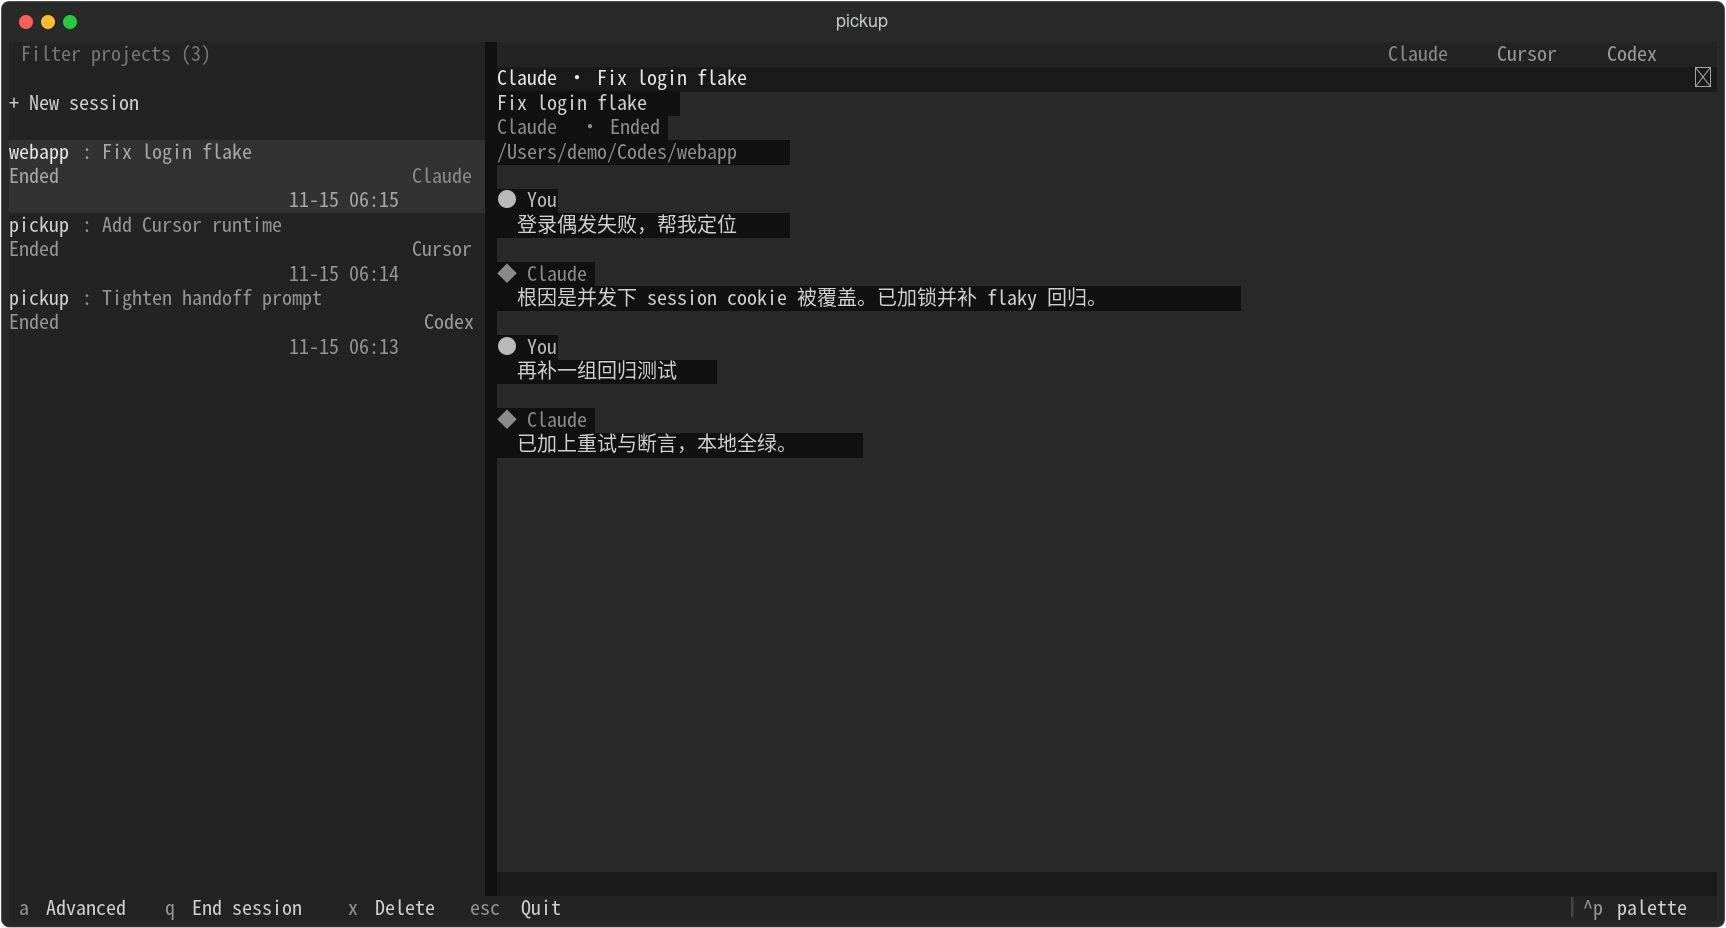
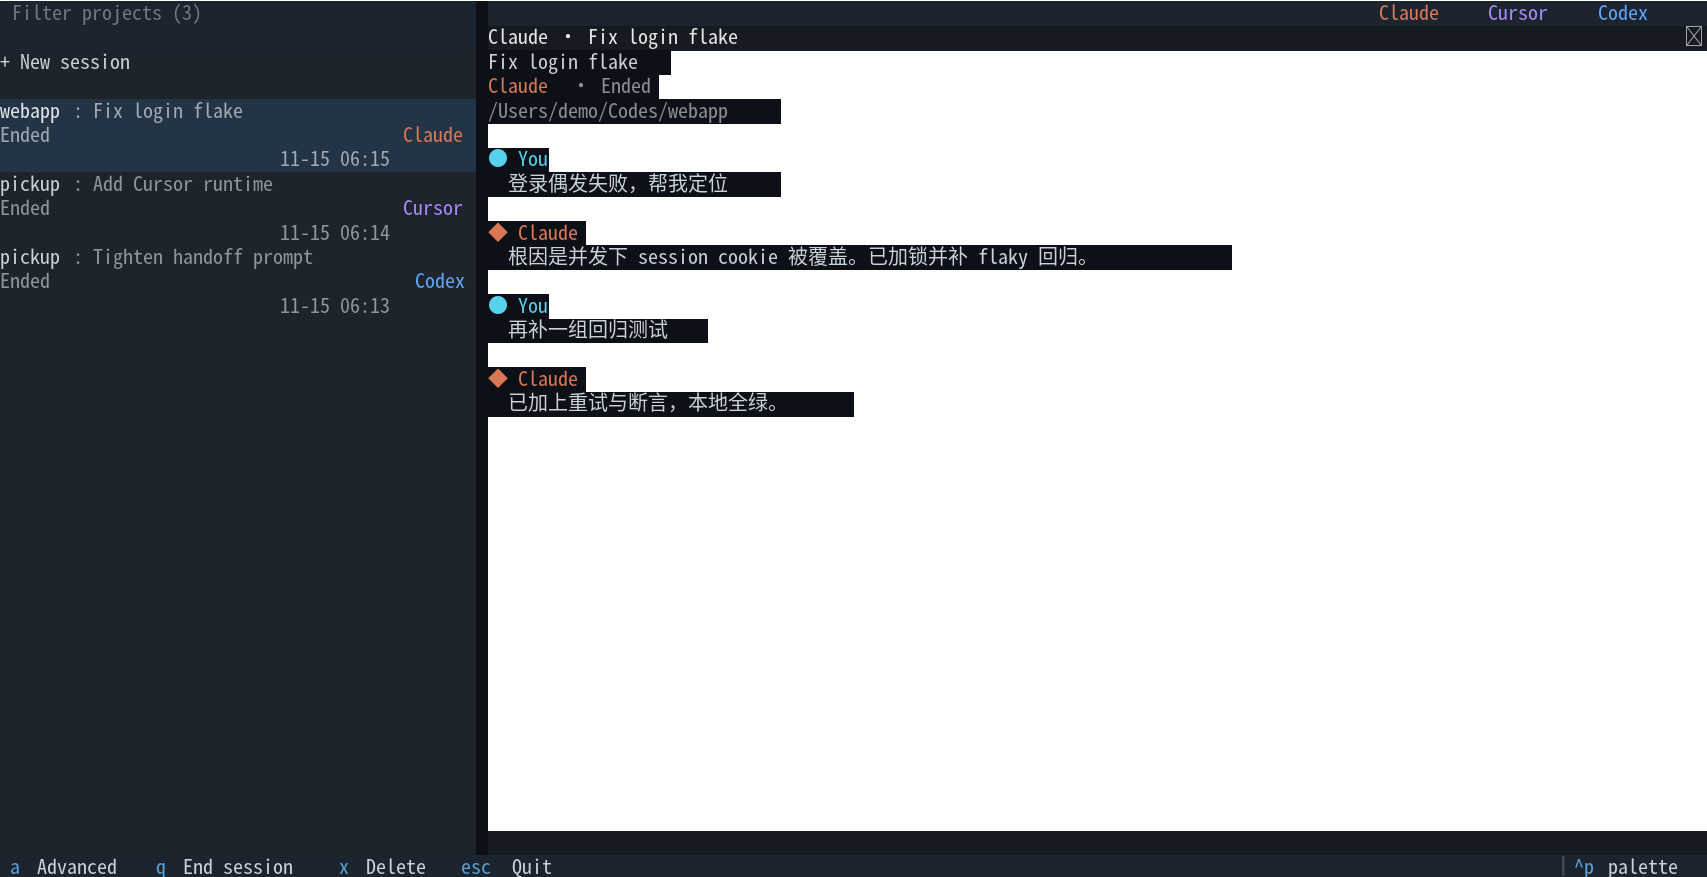
Fix README TUI screenshot greyscale and fake chrome.
Clear NO_COLOR before Textual App init so truecolor survives export; strip Rich macOS chrome from SVG.

diff --git a/docs/screenshots/capture.py b/docs/screenshots/capture.py
@@ -9,7 +9,11 @@
 
     python3 docs/screenshots/capture.py
 
-产物写入本目录：list.png（左栏列表 + 右栏完整对话预览）。
+产物写入本目录：list.png（左栏列表 + 右栏完整对话预览；无 Rich 假窗口边框）。
+
+**NO_COLOR：** 许多 CI / Agent 环境默认 `NO_COLOR=1`。Textual 会启用 Monochrome
+滤镜，整屏真彩变灰阶。本脚本在创建 App 前清除该变量；不要在带着 NO_COLOR 的
+壳里另写绕过路径。
 
 真机运行中的 TUI 请用 **F12**（`MainScreen.action_save_screenshot`）导出到
 `~/.cache/pickup/screenshots/`；勿把含真实对话的截图提交进仓库。
@@ -24,6 +28,12 @@ import subprocess
 import sys
 import tempfile
 from pathlib import Path
+
+# Textual 在 App.__init__ 里若见到 NO_COLOR 会启用 Monochrome；必须在创建
+# PickupApp 之前清掉。setdefault 不覆盖调用方已显式设置的真彩 / 语言。
+os.environ.pop("NO_COLOR", None)
+os.environ.setdefault("COLORTERM", "truecolor")
+os.environ.setdefault("PICKUP_LANG", "en")
 
 ROOT = Path(__file__).resolve().parents[2]
 sys.path.insert(0, str(ROOT))
@@ -156,12 +166,72 @@ def _demo_store():
     return store
 
 
+def _strip_window_chrome(svg_text: str) -> str:
+    """去掉 Rich SVG 假 macOS 标题栏，只留终端内容区。"""
+    # 三色点
+    svg_text = re.sub(
+        r'<g transform="translate\(26,\s*22\)">\s*'
+        r"(?:<circle\b[^/]*/>\s*){3}"
+        r"</g>\s*",
+        "",
+        svg_text,
+        flags=re.S,
+    )
+    # 标题「pickup」
+    svg_text = re.sub(
+        r'<text class="[^"]*-title"[^>]*>.*?</text>\s*',
+        "",
+        svg_text,
+        flags=re.S,
+    )
+    # 圆角外框
+    svg_text = re.sub(
+        r'<rect\b[^>]*\brx="8"\s*/>\s*',
+        "",
+        svg_text,
+        count=1,
+    )
+    # 内容组移到原点（Rich 默认 translate(terminal_x, terminal_y)≈(9,41)）
+    svg_text = re.sub(
+        r'(<g transform=")translate\([^"]+\)(" clip-path="url\(#[^"]*-clip-terminal\)">)',
+        r"\1translate(0, 0)\2",
+        svg_text,
+        count=1,
+    )
+    clip = re.search(
+        r'id="[^"]*-clip-terminal"\s*>\s*<rect\b[^>]*?\bwidth="([^"]+)"[^>]*?\bheight="([^"]+)"',
+        svg_text,
+        flags=re.S,
+    )
+    if clip is None:
+        clip = re.search(
+            r'id="[^"]*-clip-terminal"\s*>\s*<rect\b[^>]*?\bheight="([^"]+)"[^>]*?\bwidth="([^"]+)"',
+            svg_text,
+            flags=re.S,
+        )
+        if clip is not None:
+            height, width = clip.group(1), clip.group(2)
+        else:
+            width = height = None
+    else:
+        width, height = clip.group(1), clip.group(2)
+    if width is not None and height is not None:
+        svg_text = re.sub(
+            r'viewBox="0 0 [^"]+"',
+            f'viewBox="0 0 {width} {height}"',
+            svg_text,
+            count=1,
+        )
+    return svg_text
+
+
 def _prepare_svg(svg_text: str) -> str:
-    """去掉远程 @font-face，换成带 CJK 的本地字体，并去掉 textLength/逐行 clip。
+    """去假窗口铬、远程 @font-face，换成带 CJK 的本地字体，并去掉 textLength/逐行 clip。
 
     Rich 按 Fira Code 字宽写了 textLength；换成 Droid 后字宽对不上，cairosvg
     会把字形压成豆腐块。去掉强制字宽与行裁剪后，截图可读（间距略松一点可接受）。
     """
+    svg_text = _strip_window_chrome(svg_text)
     svg_text = re.sub(r"@font-face\s*\{.*?\}", "", svg_text, flags=re.S)
     svg_text = re.sub(
         r"font-family:\s*Fira Code,\s*monospace;",
@@ -228,6 +298,10 @@ _CAIRO_SNIPPET = (
 async def _capture() -> None:
     store = _demo_store()
     app = PickupApp(store, embed_ok=True, osc_report=None)
+    if app.no_color:
+        raise RuntimeError(
+            "PickupApp.no_color 仍为 True：NO_COLOR 未在创建 App 前清除，截图会灰阶"
+        )
     async with app.run_test(size=(140, 36)) as pilot:
         await pilot.pause(delay=0.4)
         # 跳过「新建会话」钉，选中第一条真实会话 → 右栏完整预览

diff --git a/docs/superpowers/plans/2026-07-23-readme-screenshot-fidelity.md b/docs/superpowers/plans/2026-07-23-readme-screenshot-fidelity.md
@@ -1,0 +1,34 @@
+# README Screenshot Fidelity Implementation Plan
+
+> **For Claude:** REQUIRED SUB-SKILL: Use superpowers:executing-plans to implement this plan task-by-task.
+
+**Goal:** Make `docs/screenshots/list.png` truecolor, chrome-free, and regenerable via `capture.py` even when the host has `NO_COLOR=1`.
+
+**Architecture:** Keep Textual Pilot → Rich SVG → cairosvg PNG. Clear `NO_COLOR` before `PickupApp` init; strip Rich window chrome in `_prepare_svg`; refresh docs that blamed SVG itself for greyscale.
+
+**Tech Stack:** Python 3, Textual, Rich SVG, cairosvg, Noto CJK fonts.
+
+## File map
+
+| File | Role |
+|------|------|
+| `docs/screenshots/capture.py` | Env hygiene, chrome strip, regenerate PNG |
+| `docs/screenshots/list.png` | README / 验收产物 |
+| `AGENTS.md` | 截图验收：点名 `NO_COLOR` |
+| `docs/TERMINAL_UI_KNOWLEDGE_BASE.md` | 隐性依赖：灰阶根因 |
+| `docs/superpowers/specs/2026-07-23-readme-screenshot-fidelity-design.md` | 已写设计 |
+
+### Task 1: Fix `capture.py`
+
+**Steps:**
+1. At module start (before `PickupApp` construction path): `os.environ.pop("NO_COLOR", None)`; setdefault `COLORTERM=truecolor`, `PICKUP_LANG=en`.
+2. In `_prepare_svg`: remove chrome rect / title / traffic-light `<g>`; set content `translate(0,0)`; set `viewBox` from clip-terminal size.
+3. Docstring note about `NO_COLOR`.
+4. Run `python3 docs/screenshots/capture.py` from `cli/`.
+5. Verify PNG has chromatic pixels near `#D97757` and no `#ff5f57` traffic-light blob in the title-bar region.
+
+### Task 2: Docs
+
+**Steps:**
+1. `AGENTS.md` 截图节：说明脚本会清 `NO_COLOR`；灰阶优先查环境变量，不要再写「SVG 导出总会压灰」。
+2. `TERMINAL_UI_KNOWLEDGE_BASE.md` 隐性依赖同口径。

diff --git a/docs/superpowers/specs/2026-07-23-readme-screenshot-fidelity-design.md b/docs/superpowers/specs/2026-07-23-readme-screenshot-fidelity-design.md
@@ -1,0 +1,31 @@
+# README TUI 截图保真（无假窗口边框）
+
+日期：2026-07-23  
+状态：已落地
+
+## 目标
+
+README / 验收用的 `docs/screenshots/list.png` 在**无 OS 窗口铬**的前提下，配色、布局、CJK 与真机 TUI 一致，且可脚本重出。
+
+## 根因
+
+出图环境常带 `NO_COLOR=1`。Textual 在 `App.__init__` 启用 `Monochrome` 滤镜，compositor 里真彩（如 Claude `#D97757`）被压成灰阶。Rich SVG 另画红/黄/绿假标题栏，与「真实 TUI」无关。
+
+## 方案
+
+修现有 Pilot → SVG → PNG 管线（不引入 Pillow 栅格化 / 无头终端）：
+
+1. `capture.py` 在创建 `PickupApp` 前清除 `NO_COLOR`，并 `COLORTERM=truecolor`、`PICKUP_LANG=en`。
+2. SVG 后处理去掉 Rich 窗口铬（圆角外框、标题、三色点），内容组平移归零，`viewBox` 对齐 terminal clip。
+3. 保留既有 CJK 字体替换与 `textLength`/bold 修补。
+4. 重出 `list.png`；文档纠正「SVG→PNG 总会灰阶」的过时说法，改为点名 `NO_COLOR`。
+
+## 非目标
+
+真机窗口像素截屏、CI 自动出图、Pillow 逐格渲染（字距仍不满意时再升级）。
+
+## 验收
+
+- PNG 中存在 runtime 真彩（至少 Claude 橙附近像素）。
+- 无红/黄/绿假按钮与「pickup」假标题栏。
+- CJK 可读；左栏+右栏对话+Footer 布局完整；仍用虚构 demo 数据。

diff --git a/docs/TERMINAL_UI_KNOWLEDGE_BASE.md b/docs/TERMINAL_UI_KNOWLEDGE_BASE.md
@@ -219,7 +219,7 @@ stateDiagram-v2
 - **AI 易错点**【壳层配色层级】pickup 自有主题是 `pickup-dark` / `pickup-light`（冷静工作台），不是 Textual 默认主题。筛选框用 `$panel` / 聚焦 `$primary-muted`，禁止再铺 `$primary-darken-*` 大色块；列表选中只靠主题 `block-cursor-*` 抬一层冷灰蓝底，**禁止**再给 `ListItem.-highlight` 加 `border-left`——`tall`/`solid` 边框在终端里会和选中底拼成「双蓝条」。分栏激活条用主题变量 `$pane-active-background`（muted 提亮约 10%），不要直接写死 hex 进 widget CSS。饱和色只留给助手标签、运行中状态、警告/错误。
 - 【隐性依赖】`Footer` 展示的是 `MainScreen.BINDINGS` 的本地化 description。验证时中文环境必须看到 `a 高级操作`，英文环境必须看到 `a Advanced`；不要再手绘底部帮助行。
 - 【隐性依赖】真实终端冒烟必须跑「`pickup` 入口实际加载的包」：`python3 -m pickup`、或对 **pipx / site-packages 同一解释器** 覆盖安装后再敲 `pickup`。系统 `python3 -c "import pickup"` 与 `pickup` CLI 可能不是同一份代码（2026-07-21：源码已钉底、pipx 旧包仍顶对齐）。布局、配色、预览滚动改动后也必须重启已打开的 TUI。命令见 `AGENTS.md`「本机入口」。
-- 【隐性依赖】截图验收分两类：`docs/screenshots/capture.py` 使用虚构数据，适合提交和回归；F12 截图反映真实 TUI，可能含私密对话，只能本地诊断。Textual SVG 转 PNG 可能把真彩色压成灰阶，运行时配色要以真机或卡片样式断言确认。
+- 【隐性依赖】截图验收分两类：`docs/screenshots/capture.py` 使用虚构数据，适合提交和回归；F12 截图反映真实 TUI，可能含私密对话，只能本地诊断。夹具图灰阶的常见根因是环境 `NO_COLOR=1`（Textual Monochrome），不是 cairosvg；`capture.py` 会在创建 App 前清除 `NO_COLOR` 并去掉 Rich 假窗口铬。仍可用真机或 `SessionCard.render_line` segment 交叉确认配色。
 - 【消歧】“运行中 / 运行中(托管) / 已结束”是终端界面的进程活性展示；它与标题模块的状态标签及机器接口英文 `status` 不是同一套语义，不能互相替换。
 - 【消歧】“对话预览”固定在右栏，旧 Space 全屏预览入口不得复活；`e` 全屏接管已删除。默认展示最新消息（底部），不是会话开头。
 - **AI 易错点**【禁止】侧边栏选中或回车托管后自动聚焦右栏。焦点必须留在侧边栏，只有鼠标点右栏才进入内嵌交互；右栏滚轮与焦点无关。